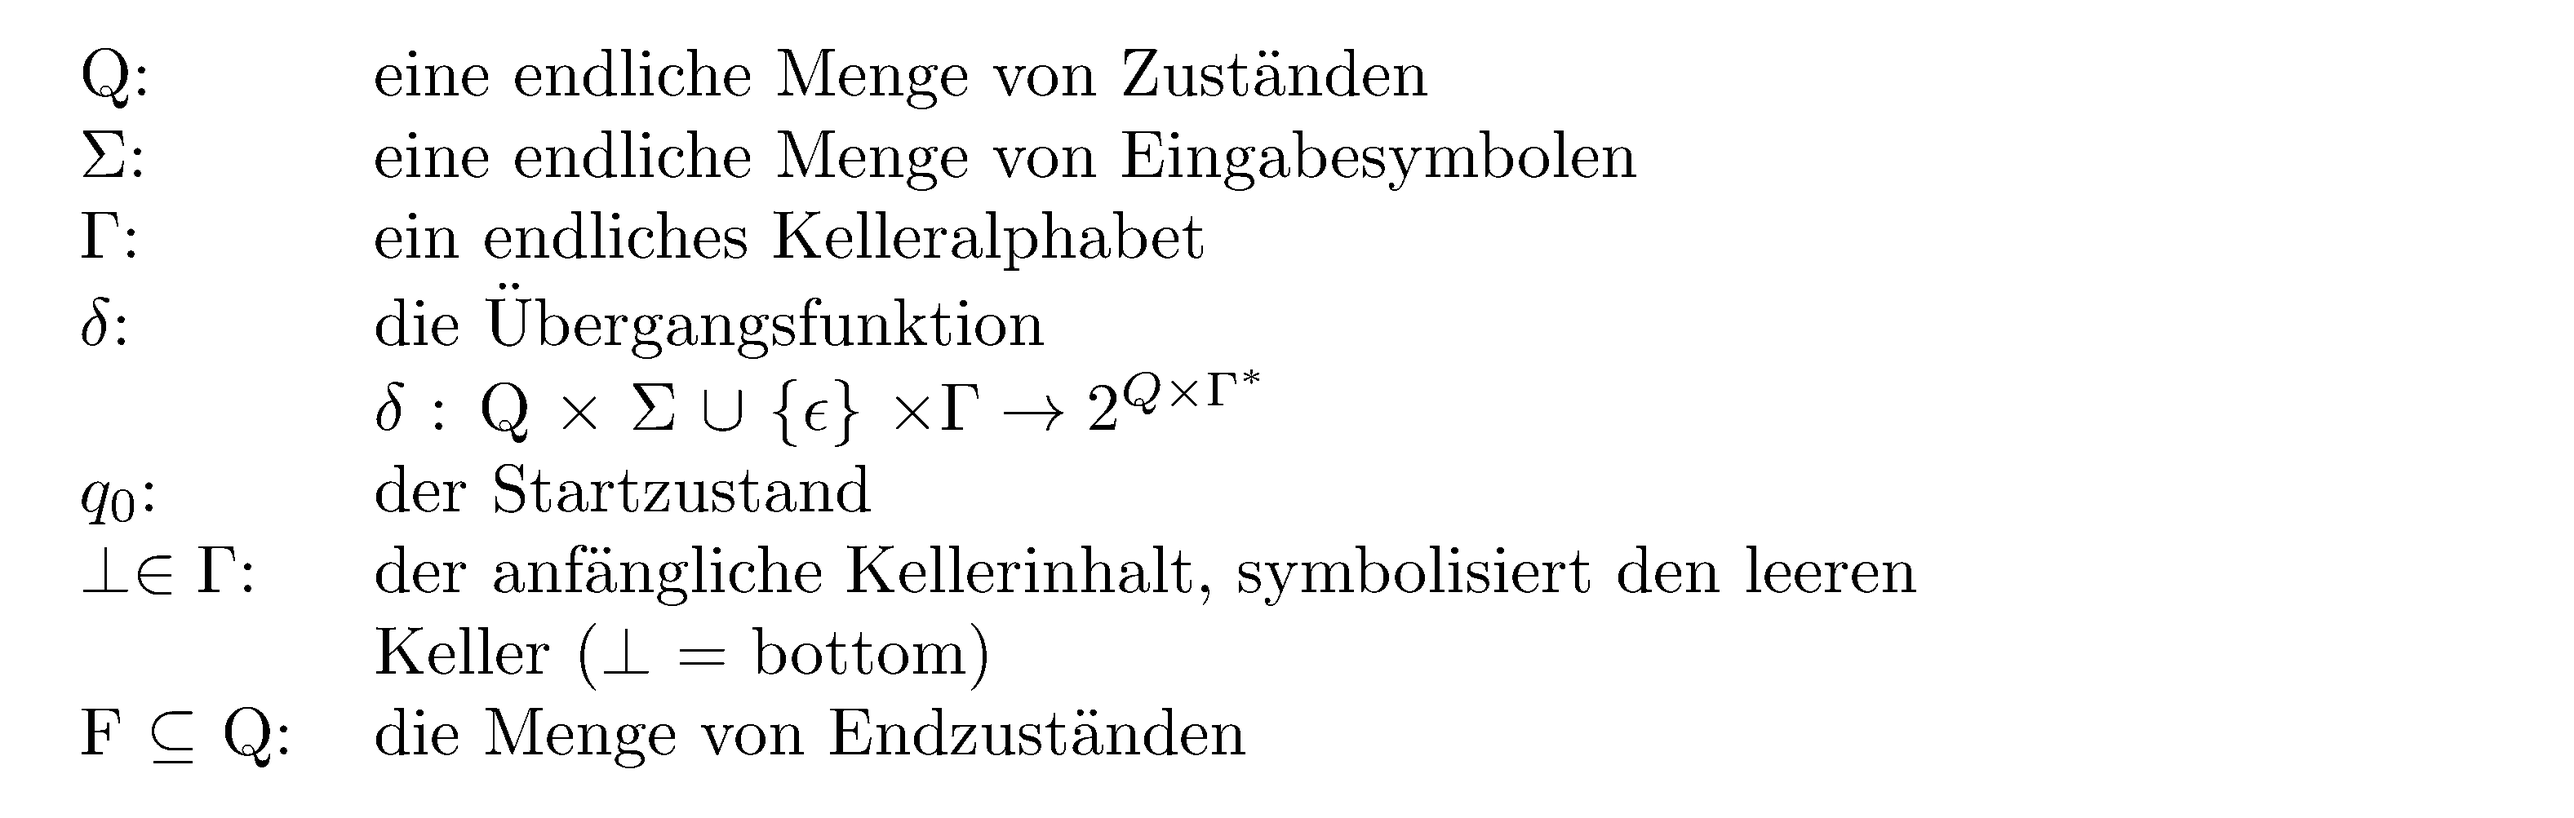
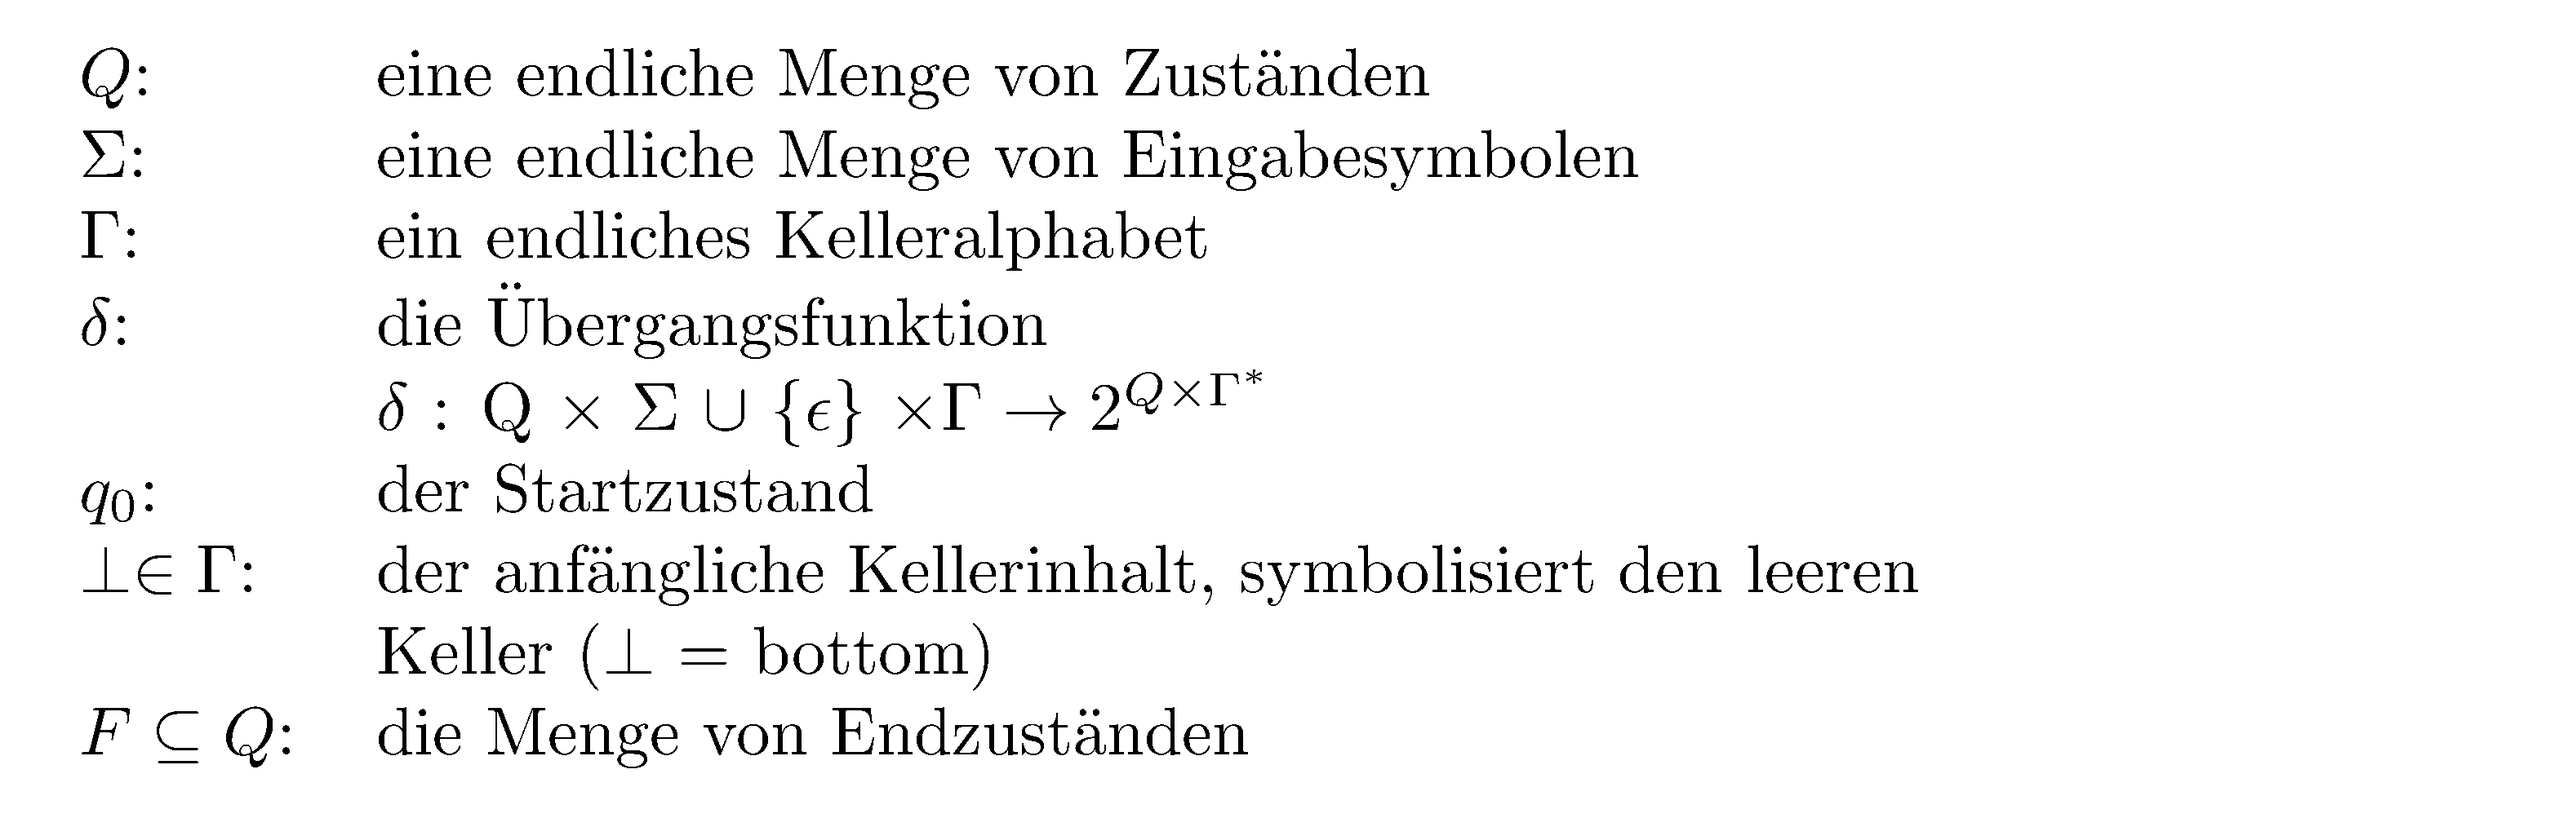
Lecture: fix math mode in image (CFG) (#296)

diff --git a/lecture/02-parsing/images/Def_PDA.tex b/lecture/02-parsing/images/Def_PDA.tex
@@ -10,7 +10,7 @@
 \begin{document}
 
 \begin{tabular}{lp{11 cm}}
-	Q: & eine endliche Menge von Zuständen\\
+	$Q$: & eine endliche Menge von Zuständen\\
 	$\Sigma$: & eine endliche Menge von Eingabesymbolen\\
 	$\Gamma$: & ein endliches Kelleralphabet\\
 	$\delta$: & die Übergangsfunktion\\
@@ -19,6 +19,6 @@
 	$q_0$:& der Startzustand\\
 	$\perp \in \Gamma$: &  der anfängliche Kellerinhalt, symbolisiert den leeren\\
 	& Keller ($\perp$ = bottom)\\
-	F $\subseteq$ Q: & die Menge von Endzuständen
+	$F \subseteq Q$: & die Menge von Endzuständen
 \end{tabular}
 \end{document}
